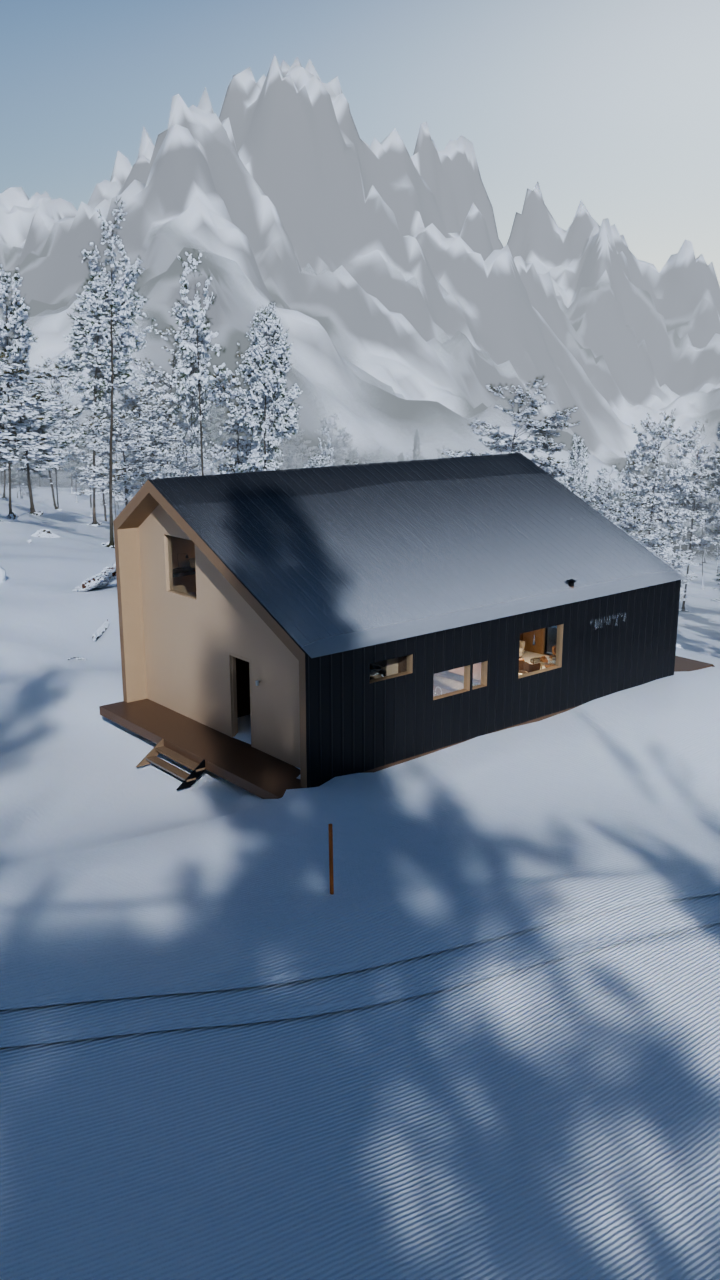
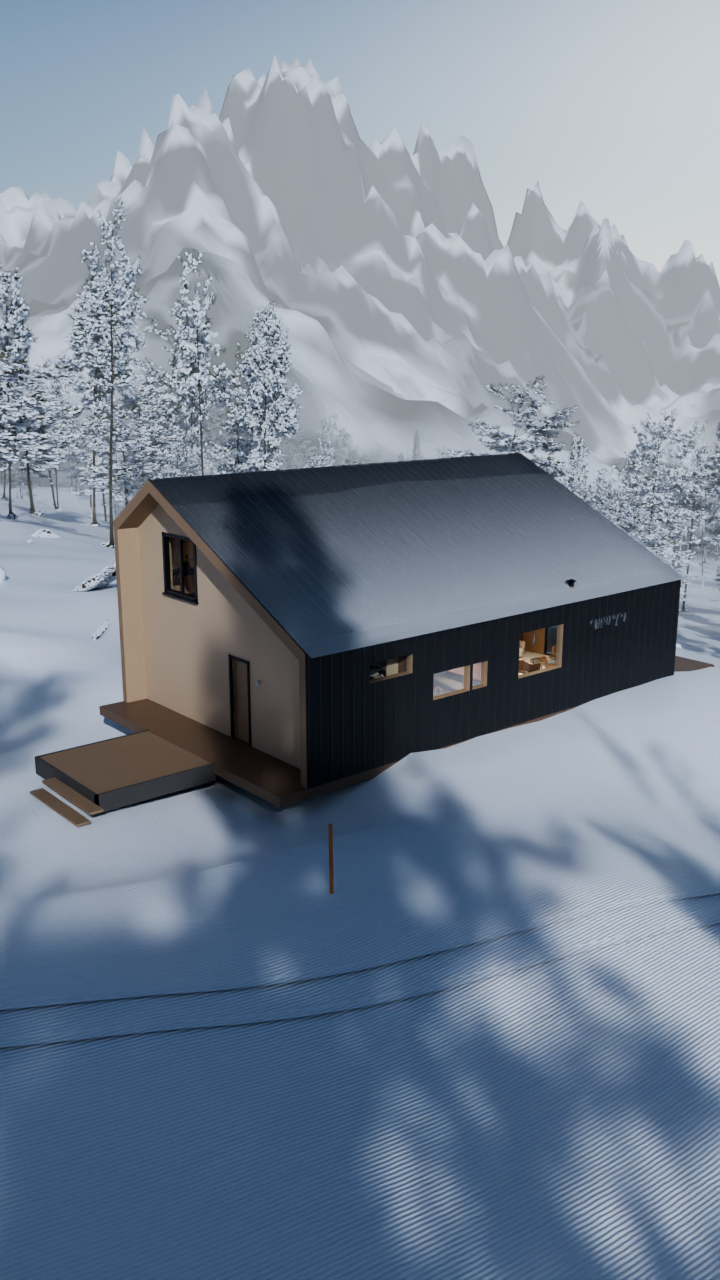
Roble: marco de la puerta y juego de fotos rehecho con los arreglos
La hoja cerrada seguia siendo un tablero a ras del muro, porque la jamba que
trae el modelo es del mismo Ro_MaderaClara que la fachada y no dibuja ningun
contorno. El marco es el mismo gesto que el de la ventana, que es lo que la
hace leerse como ventana y no como agujero: una pieza delgada que recorta el
vano contra el fronton claro. Va por delante de la manilla, que asoma hasta
y = 14,728; si arranca antes, se le mete por dentro.

Y las seis fotos de aprobacion rehechas con todo lo de esta vuelta.

Claude-Session: https://claude.ai/code/session_01EHD4cHXQUC3Jd31KnCs3Nd

diff --git a/casa_roble_3d.py b/casa_roble_3d.py
@@ -1800,6 +1800,21 @@ def build_acceso(M):
     def pz(nombre, x0, x1, y0, y1, z0, z1, mat):
         piezas.append(box(nombre, x0, x1, y0, y1, z0, z1, mat))
 
+    # ---------------------------------------------------------------- el marco de la puerta
+    # La hoja la cierra cerrar_puerta_acceso(), pero cerrada sigue siendo un tablero a ras del
+    # muro: la jamba que trae el modelo es del mismo Ro_MaderaClara que la fachada, así que no
+    # dibuja ningún contorno y la puerta se despega poco. Este marco es el mismo gesto que el de
+    # la ventana —y queda a la vista que son el mismo lenguaje, que es lo que pedía la revisión
+    # al hablar de prestancia—: una pieza delgada que recorta el vano contra el frontón claro.
+    # Va de y = 14,74 a 14,80, o sea por delante de la hoja (14,67) y **por delante de la manilla**
+    # (que asoma hasta 14,728): si arranca antes, el marco se le mete por dentro.
+    px0, px1, pzz0, pzz1 = VANO_PUERTA
+    MP = 0.05
+    yp0, yp1 = 14.74, 14.80
+    pz("MarcoPuertaIzq", px0 - MP, px0 + 0.015, yp0, yp1, pzz0, pzz1 + MP, M["marco"])
+    pz("MarcoPuertaDer", px1 - 0.015, px1 + MP, yp0, yp1, pzz0, pzz1 + MP, M["marco"])
+    pz("MarcoPuertaSup", px0 - MP, px1 + MP, yp0, yp1, pzz1 - 0.015, pzz1 + MP, M["marco"])
+
     # ---------------------------------------------------------------- la ventana del 2do piso
     vx0, vx1, vz0, vz1 = VANO_VENT
     MV = 0.065
